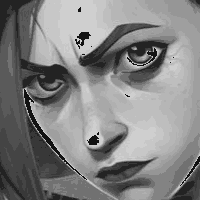
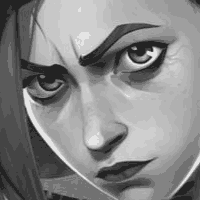
Fix: Quantizacao Nao Uniforme

diff --git a/quantizacao.c b/quantizacao.c
@@ -40,7 +40,12 @@ typedef struct
     int qtd_valores; //Quantidade de valores
 } Imagem;
 
-
+typedef struct
+{
+    int* histogram;
+    int* acumuleted_histogram;
+    int tam;
+} Histograma;
 
 //Cria a imagem
 Imagem* create_image_gray_scale(int altura, int largura, int n_bits)
@@ -159,30 +164,50 @@ Imagem* make_uniform_quantization(Imagem* img, int n_bits)
 
 
 //Fazer o Histograma
-int* make_histogram(Imagem* img)
+Histograma* make_histogram(Imagem* img)
 {
-    int* histogram = (int*)malloc(sizeof(int)*img->qtd_valores);
-    
-    if(histogram == NULL)
-    {
-        return NULL;
-    }
-    
+    Histograma* hst = (Histograma*)malloc(sizeof(Histograma));
+
+    hst->histogram = (int*)malloc(sizeof(int)*img->qtd_valores);
+    hst->acumuleted_histogram = (int*)malloc(sizeof(int)*img->qtd_valores);
+    hst->tam = img->qtd_valores;
+
+    //Zerar valores dos histogramas
     for(int i=0; i < img->qtd_valores; i++)
     {
-        histogram[i] = 0;
+        hst->histogram[i] = 0;
+        hst->acumuleted_histogram[i] = 0;
     }
     
+    //Preenche-los da forma correta
     for(int i=0; i < img->altura; i++)
     {
         for(int j=0; j < img->largura; j++)
         {
             int value = img->matriz[i][j];
-            histogram[value] += 1;
+            hst->histogram[value] += 1;
         }
     }
+
+    int sum_hist = 0;
+
+    for(int i=0; i < hst->tam; i++)
+    {   
+        sum_hist += hst->histogram[i];
+        hst->acumuleted_histogram[i] = sum_hist;
+    }
     
-    return histogram;
+    return hst;
+}
+
+void imprime_vetor(int* vector, int tam)
+{   
+    printf("\n");
+    for(int i=0; i < tam; i++)
+    {
+        printf(" %d", vector[i]);
+    }
+    printf("\n");
 }
 
 
@@ -191,7 +216,9 @@ Imagem* make_equality_frequence_distribution_quantization(Imagem* img, int n_bit
 {   
     Imagem* new_image = create_image_gray_scale(img->altura, img->largura, n_bits);
     
-    int* histogram = make_histogram(img);
+    Histograma* hst = make_histogram(img);
+
+    int* histogram = hst->histogram;
     
     if(new_image == NULL || histogram == NULL)
     {
@@ -200,11 +227,12 @@ Imagem* make_equality_frequence_distribution_quantization(Imagem* img, int n_bit
 
     int n_faixas = (int)pow(2, n_bits);
     int new_values[n_faixas];
-    int limit_values[n_faixas];
+    int limit_values[n_faixas-1];
     
     int count_values = 0;
     int sum_values = 0;
     int counter_for_values = 0;
+    
     for(int i=0; i < img->qtd_valores; i++)
     {
         
@@ -219,8 +247,17 @@ Imagem* make_equality_frequence_distribution_quantization(Imagem* img, int n_bit
             sum_values = 0;
             counter_for_values += 1; 
         }
+
+        if(counter_for_values == n_faixas - 1 && i == img->qtd_valores-1)
+        {
+            limit_values[counter_for_values] = img->qtd_valores;
+            new_values[counter_for_values] = sum_values/count_values;
+        }
         
     }
+
+    imprime_vetor(limit_values, n_faixas);
+    imprime_vetor(new_values, n_faixas);
 
     for(int i=0; i < img->altura; i++)
     {
@@ -311,6 +348,16 @@ void save_img(Imagem* img, char* name)
 }
 
 
+void save_histogram(int *histogram, char* path_to_save)
+{
+    int maior_frequencia = 0;
+
+    for(int i=0; i<9; i++)
+    {
+
+    }
+
+}
 
 
 
@@ -318,12 +365,12 @@ void save_img(Imagem* img, char* name)
 int main(int argc, char const *argv[])
 {
 
-    
+    /*
     //PIPELINE COM IMAGEM GERADA ALEATORIA
     srand(time(NULL));
-
+    
     Imagem* my_image = create_image_gray_scale(16, 16, 8);
-
+    
     if(my_image == NULL)
     {
         printf("Imagem nao criada!");
@@ -333,19 +380,19 @@ int main(int argc, char const *argv[])
     fill_matriz_with_random(my_image);
     //show_image(my_image);
     save_img(my_image, "img_random/Imagem_normal.png");
-
+    
     
     Imagem* new_uniform_image = make_uniform_quantization(my_image, 1);
     printf("\n Quantizacao Uniforme\n");
     //show_image(new_uniform_image);
     save_img(new_uniform_image, "img_random/Imagem_uniforme.png");
-
+    
     
     Imagem* new_no_uniform_image = make_equality_frequence_distribution_quantization(my_image, 1);
     printf("\n Quantizacao Nao Uniforme\n");
     //show_image(new_no_uniform_image);
     save_img(new_no_uniform_image, "img_random/Imagem_nao_uniforme.png");
-    
+    */
     
     printf("Leitura de Imagem Iniciada\n");
     Imagem* img_jinx = read_img("jinx_omg/JinxGrayScale.png");

diff --git a/README.md b/README.md
@@ -11,10 +11,10 @@ stb_image_write.h = "https://github.com/nothings/stb/blob/master/stb_image_write
 
 # Imagens de Quantização
 
-Abaixo estão as imagens que representam a quantização da imagem com o algoritmo de quantização uniforme:
+Abaixo estão as imagens que representam a quantização da imagem com o algoritmo de quantização com divisão uniforme:
 
 <table>
-  <caption>Quantização Uniforme</caption>
+  <caption>Quantização Divisão Uniforme</caption>
   <tr>
     <td><img src="jinx_omg\JinxGrayScale.png" width="200"><br><figcaption>Original</figcaption></td>
     <td><img src="jinx_omg\JinxAll_Quant_Uniform_4bits.png" width="200"><br><figcaption>Quantização 4 bits</figcaption></td>
@@ -22,5 +22,19 @@ Abaixo estão as imagens que representam a quantização da imagem com o algorit
   <tr>
     <td><img src="jinx_omg\JinxAll_Quant_Uniform_2bits.png" width="200"><br><figcaption>Quantização 2 bits</figcaption></td>
     <td><img src="jinx_omg\JinxAll_Quant_Uniform_1bits.png" width="200"><br><figcaption>Quantização 1 bit</figcaption></td>
+  </tr>
+</table>
+
+Abaixo estão as imagens que representam a quantização da imagem usando o algoritmo de quantização não uniforme:
+
+<table>
+  <caption>Quantização Divisão Não Uniforme</caption>
+  <tr>
+    <td><img src="jinx_omg\JinxGrayScale.png" width="200"><br><figcaption>Original</figcaption></td>
+    <td><img src="jinx_omg\JinxAll_Quant_NoUniform_4bits.png" width="200"><br><figcaption>Quantização 4 bits</figcaption></td>
+  </tr>
+  <tr>
+    <td><img src="jinx_omg\JinxAll_Quant_NoUniform_2bits.png" width="200"><br><figcaption>Quantização 2 bits</figcaption></td>
+    <td><img src="jinx_omg\JinxAll_Quant_NoUniform_1bits.png" width="200"><br><figcaption>Quantização 1 bit</figcaption></td>
   </tr>
 </table>